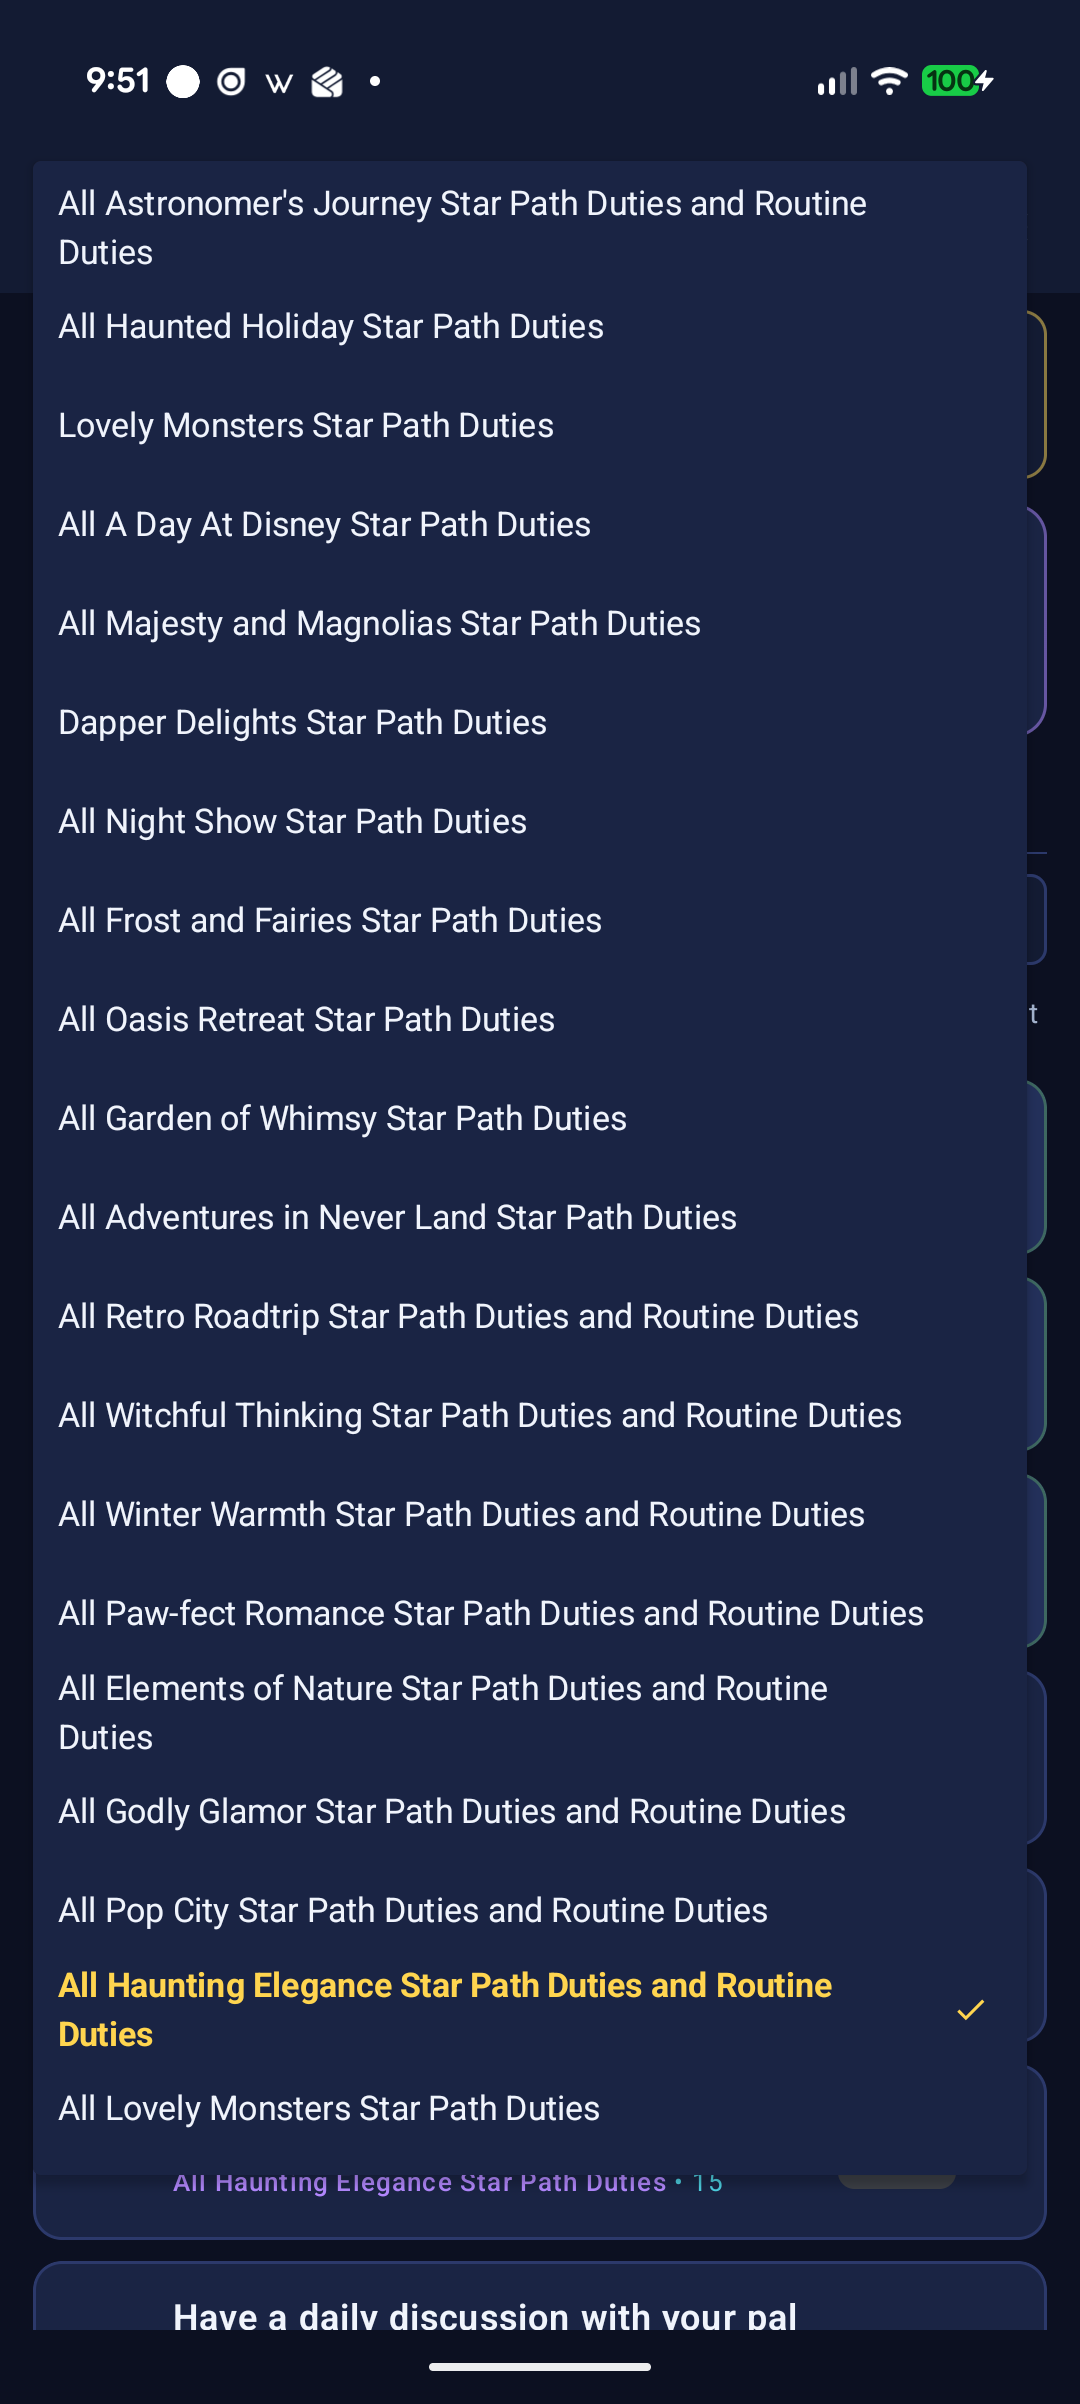
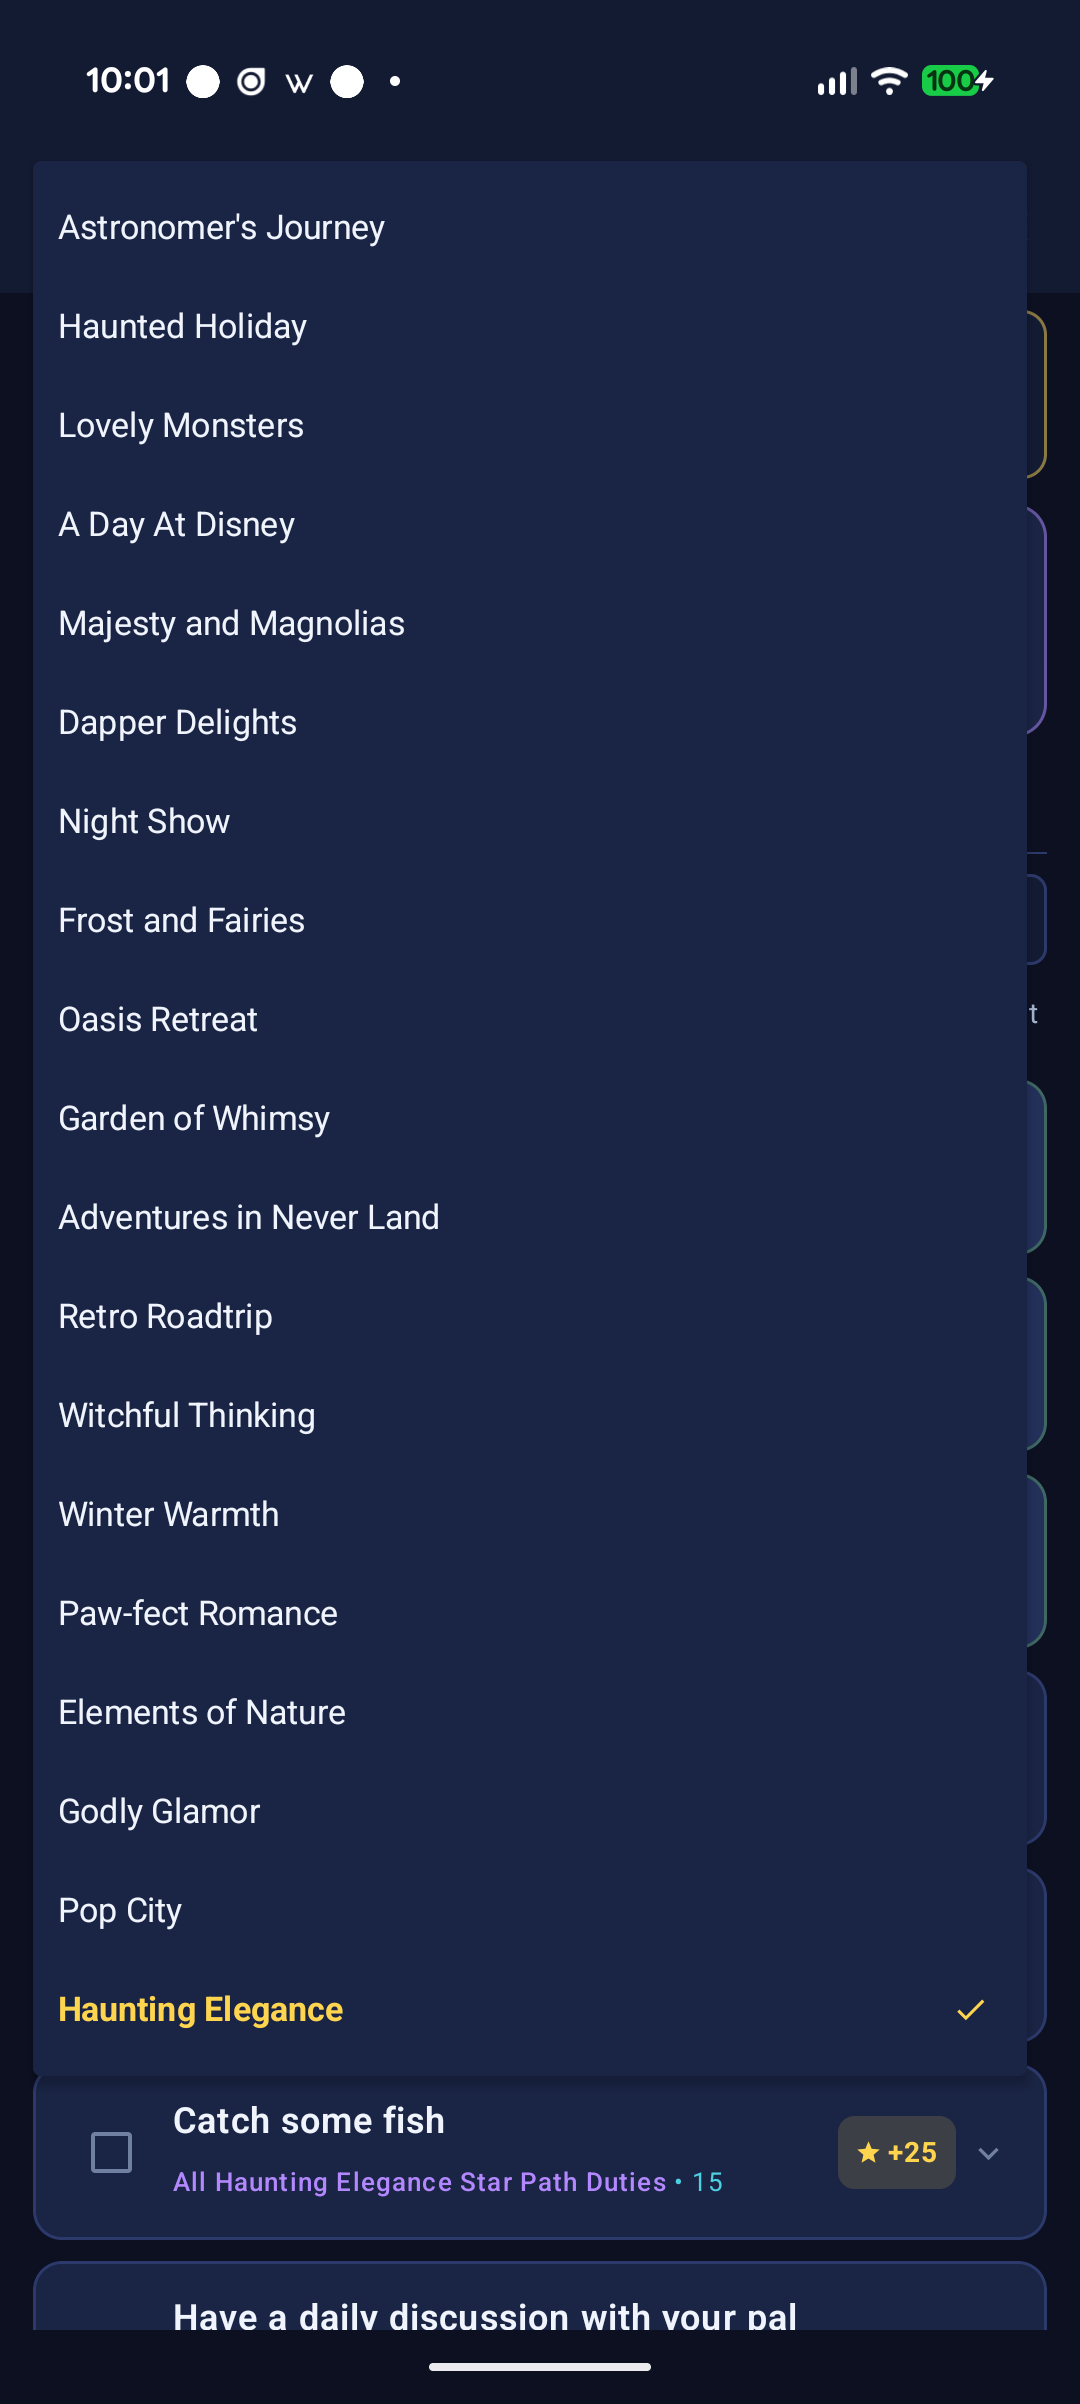
Deduplicate Star Path URLs and entries, trim dropdown display titles

diff --git a/app/src/main/java/net/syserr/starpathtracker/data/StarPathRepository.kt b/app/src/main/java/net/syserr/starpathtracker/data/StarPathRepository.kt
@@ -56,26 +56,42 @@ class StarPathRepository(private val context: Context) {
         val PRESETS = listOf(
             StarPathPreset(
                 id = "haunting_elegance",
-                title = "Haunting Elegance Star Path",
+                title = "Haunting Elegance",
                 url = DEFAULT_URL,
                 description = "Season of Scares update (Oogie Boogie, Jack Skellington)",
                 assetFileName = "haunting_elegance.json"
             ),
             StarPathPreset(
                 id = "godly_glamor",
-                title = "Godly Glamor Star Path",
+                title = "Godly Glamor",
                 url = "https://www.ign.com/wikis/disney-dreamlight-valley/All_Godly_Glamor_Star_Path_Duties_and_Routine_Duties",
                 description = "Olympus Fashion & Mediterranean Specialties",
                 assetFileName = "godly_glamor.json"
             ),
             StarPathPreset(
                 id = "pop_city",
-                title = "Pop City Star Path",
+                title = "Pop City",
                 url = "https://www.ign.com/wikis/disney-dreamlight-valley/All_Pop_City_Star_Path_Duties_and_Routine_Duties",
                 description = "Candy Rush & Vanellope Neon City",
                 assetFileName = "pop_city.json"
             )
         )
+        fun deduplicateAndCleanEntries(entries: List<StarPathEntry>): List<StarPathEntry> {
+            val seenUrls = mutableSetOf<String>()
+            val seenTitles = mutableSetOf<String>()
+            val result = mutableListOf<StarPathEntry>()
+
+            for (entry in entries) {
+                val cleanTitle = StarPathScraper.cleanPathTitle(entry.title)
+                val normUrl = StarPathScraper.normalizeUrl(entry.url)
+                val titleKey = cleanTitle.lowercase(java.util.Locale.ROOT)
+
+                if (normUrl.isNotEmpty() && seenUrls.add(normUrl) && seenTitles.add(titleKey)) {
+                    result.add(entry.copy(title = cleanTitle, url = entry.url.trim()))
+                }
+            }
+            return result
+        }
     }
 
     private val _starPathEntries = MutableStateFlow<List<StarPathEntry>>(DEFAULT_ENTRIES)
@@ -110,7 +126,9 @@ class StarPathRepository(private val context: Context) {
             try {
                 val parsed = json.decodeFromString<List<StarPathEntry>>(cached)
                 if (parsed.isNotEmpty()) {
-                    _starPathEntries.value = parsed
+                    val cleaned = deduplicateAndCleanEntries(parsed)
+                    _starPathEntries.value = cleaned
+                    prefs.edit().putString(KEY_ENTRIES_CACHE, json.encodeToString(cleaned)).apply()
                 }
             } catch (_: Exception) {}
         }
@@ -121,8 +139,9 @@ class StarPathRepository(private val context: Context) {
         if (result.isSuccess) {
             val list = result.getOrThrow()
             if (list.isNotEmpty()) {
-                _starPathEntries.value = list
-                prefs.edit().putString(KEY_ENTRIES_CACHE, json.encodeToString(list)).apply()
+                val cleaned = deduplicateAndCleanEntries(list)
+                _starPathEntries.value = cleaned
+                prefs.edit().putString(KEY_ENTRIES_CACHE, json.encodeToString(cleaned)).apply()
             }
         }
         result
@@ -212,6 +231,8 @@ class StarPathRepository(private val context: Context) {
                     )
                 }
             }
+
+            loadedList = loadedList.copy(title = StarPathScraper.cleanPathTitle(loadedList.title))
 
             // Always update persistent checked status with the merged list
             saveCheckedStatus(listId, loadedList.duties.filter { d -> d.isCompleted })

diff --git a/app/src/main/java/net/syserr/starpathtracker/data/scraper/StarPathScraper.kt b/app/src/main/java/net/syserr/starpathtracker/data/scraper/StarPathScraper.kt
@@ -17,6 +17,30 @@ object StarPathScraper {
     private const val USER_AGENT =
         "Mozilla/5.0 (Windows NT 10.0; Win64; x64) AppleWebKit/537.36 (KHTML, like Gecko) Chrome/120.0.0.0 Safari/537.36"
 
+    fun normalizeUrl(url: String): String {
+        return url.trim()
+            .replace("http://", "https://")
+            .substringBefore("#")
+            .substringBefore("?")
+            .trimEnd('/')
+    }
+
+    fun cleanPathTitle(raw: String): String {
+        return raw
+            .replace(Regex("(?i) - Disney Dreamlight Valley.*"), "")
+            .replace(Regex("(?i)Disney Dreamlight Valley:?\\s*"), "")
+            .replace(Regex("(?i)^\\s*All\\s+"), "")
+            .replace(Regex("(?i)\\s*Star Path Duties and Routine Duties"), "")
+            .replace(Regex("(?i)\\s*Star Path Duties and Routine"), "")
+            .replace(Regex("(?i)\\s*Star Path Duties"), "")
+            .replace(Regex("(?i)\\s*Duties and Routine Duties"), "")
+            .replace(Regex("(?i)\\s*Duties and Routine"), "")
+            .replace(Regex("(?i)\\s*Star Path"), "")
+            .replace(Regex("(?i)\\s*Duties"), "")
+            .replace(Regex("\\s+"), " ")
+            .trim()
+    }
+
     suspend fun scrapeStarPathIndex(hubUrl: String = STAR_PATH_HUB_URL): Result<List<net.syserr.starpathtracker.data.model.StarPathEntry>> =
         withContext(Dispatchers.IO) {
             try {
@@ -29,14 +53,19 @@ object StarPathScraper {
                 val links = doc.select("a[href]")
                 val entries = mutableListOf<net.syserr.starpathtracker.data.model.StarPathEntry>()
                 val seenUrls = mutableSetOf<String>()
+                val seenTitles = mutableSetOf<String>()
 
                 for (link in links) {
                     val rawText = link.text().trim()
                     val href = link.attr("abs:href").trim()
+                    val normUrl = normalizeUrl(href)
 
                     if (rawText.contains("Star Path Duties", ignoreCase = true) || href.contains("Star_Path_Duties", ignoreCase = true)) {
-                        if (href.isNotEmpty() && seenUrls.add(href)) {
-                            val displayTitle = if (rawText.isNotEmpty()) cleanTitle(rawText) else cleanTitle(href.substringAfterLast("/").replace("_", " "))
+                        val rawCandidate = if (rawText.isNotEmpty()) rawText else href.substringAfterLast("/").replace("_", " ")
+                        val displayTitle = cleanPathTitle(rawCandidate)
+                        val titleKey = displayTitle.lowercase(Locale.ROOT)
+
+                        if (normUrl.isNotEmpty() && seenUrls.add(normUrl) && seenTitles.add(titleKey)) {
                             entries.add(net.syserr.starpathtracker.data.model.StarPathEntry(title = displayTitle, url = href))
                         }
                     }
@@ -88,23 +117,16 @@ object StarPathScraper {
         // Try h1 first
         val h1 = doc.selectFirst("h1")?.text()?.trim()
         if (!h1.isNullOrEmpty()) {
-            return cleanTitle(h1)
+            return cleanPathTitle(h1)
         }
 
         // Try title tag
         val titleTag = doc.title().trim()
         if (titleTag.isNotEmpty()) {
-            return cleanTitle(titleTag)
+            return cleanPathTitle(titleTag)
         }
 
         return "Star Path Duties"
-    }
-
-    private fun cleanTitle(raw: String): String {
-        return raw.replace(Regex("(?i) - Disney Dreamlight Valley.*"), "")
-            .replace(Regex("(?i)Disney Dreamlight Valley:?\\s*"), "")
-            .replace(Regex("\\s+"), " ")
-            .trim()
     }
 
     private fun parseDuties(doc: Document, sourceUrl: String): List<StarPathDuty> {

diff --git a/app/src/test/java/net/syserr/starpathtracker/StarPathScraperTest.kt b/app/src/test/java/net/syserr/starpathtracker/StarPathScraperTest.kt
@@ -69,4 +69,30 @@ class StarPathScraperTest {
         val listId = StarPathScraper.generateListId("https://www.ign.com/wikis/disney-dreamlight-valley/All_Haunting_Elegance_Star_Path_Duties_and_Routine_Duties")
         assertEquals("all_haunting_elegance_star_path_duties_and_routine_duties", listId)
     }
+
+    @Test
+    fun testCleanPathTitleRemovesPrefixesAndSuffixes() {
+        assertEquals("Lovely Monsters", StarPathScraper.cleanPathTitle("All Lovely Monsters Star Path Duties"))
+        assertEquals("Lovely Monsters", StarPathScraper.cleanPathTitle("Lovely Monsters Star Path Duties"))
+        assertEquals("Lovely Monsters", StarPathScraper.cleanPathTitle("Lovely Monsters"))
+        assertEquals("Haunting Elegance", StarPathScraper.cleanPathTitle("All Haunting Elegance Star Path Duties and Routine Duties"))
+        assertEquals("Haunting Elegance", StarPathScraper.cleanPathTitle("Haunting Elegance Star Path"))
+        assertEquals("Pop City", StarPathScraper.cleanPathTitle("All Pop City Star Path Duties and Routine Duties"))
+        assertEquals("Godly Glamor", StarPathScraper.cleanPathTitle("All Godly Glamor Star Path Duties and Routine Duties"))
+        assertEquals("Astronomer's Journey", StarPathScraper.cleanPathTitle("All Astronomer's Journey Star Path Duties and Routine Duties"))
+        assertEquals("Dapper Delights", StarPathScraper.cleanPathTitle("Dapper Delights Star Path Duties"))
+        assertEquals("Haunted Holiday", StarPathScraper.cleanPathTitle("All Haunted Holiday Star Path Duties"))
+    }
+
+    @Test
+    fun testNormalizeUrl() {
+        assertEquals(
+            "https://www.ign.com/wikis/disney-dreamlight-valley/Lovely_Monsters_Star_Path_Duties",
+            StarPathScraper.normalizeUrl("http://www.ign.com/wikis/disney-dreamlight-valley/Lovely_Monsters_Star_Path_Duties#section")
+        )
+        assertEquals(
+            "https://www.ign.com/wikis/disney-dreamlight-valley/Lovely_Monsters_Star_Path_Duties",
+            StarPathScraper.normalizeUrl("https://www.ign.com/wikis/disney-dreamlight-valley/Lovely_Monsters_Star_Path_Duties/")
+        )
+    }
 }

diff --git a/app/src/test/java/net/syserr/starpathtracker/ui/main/MainScreenViewModelTest.kt b/app/src/test/java/net/syserr/starpathtracker/ui/main/MainScreenViewModelTest.kt
@@ -2,6 +2,7 @@ package net.syserr.starpathtracker.ui.main
 
 import net.syserr.starpathtracker.data.StarPathRepository
 import net.syserr.starpathtracker.data.model.StarPathDuty
+import net.syserr.starpathtracker.data.model.StarPathEntry
 import net.syserr.starpathtracker.data.model.StarPathList
 import org.junit.Assert.assertEquals
 import org.junit.Assert.assertFalse
@@ -80,6 +81,22 @@ class MainScreenViewModelTest {
         assertEquals(2, visibleAll.size)
         assertEquals(1, visibleOnlyIncomplete.size)
         assertEquals("Task 2", visibleOnlyIncomplete[0].title)
+    }
+
+    @Test
+    fun testDeduplicateAndCleanEntries() {
+        val rawEntries = listOf(
+            StarPathEntry("All Lovely Monsters Star Path Duties", "https://www.ign.com/wikis/disney-dreamlight-valley/All_Lovely_Monsters_Star_Path_Duties"),
+            StarPathEntry("Lovely Monsters Star Path Duties", "https://www.ign.com/wikis/disney-dreamlight-valley/Lovely_Monsters_Star_Path_Duties"),
+            StarPathEntry("Pop City", "https://www.ign.com/wikis/disney-dreamlight-valley/All_Pop_City_Star_Path_Duties_and_Routine_Duties"),
+            StarPathEntry("All Pop City Star Path Duties and Routine Duties", "https://www.ign.com/wikis/disney-dreamlight-valley/All_Pop_City_Star_Path_Duties_and_Routine_Duties#anchor")
+        )
+
+        val deduplicated = StarPathRepository.deduplicateAndCleanEntries(rawEntries)
+
+        assertEquals(2, deduplicated.size)
+        assertEquals("Lovely Monsters", deduplicated[0].title)
+        assertEquals("Pop City", deduplicated[1].title)
     }
 }
 

diff --git a/app/src/main/java/net/syserr/starpathtracker/ui/main/MainScreen.kt b/app/src/main/java/net/syserr/starpathtracker/ui/main/MainScreen.kt
@@ -105,6 +105,7 @@ import net.syserr.starpathtracker.data.StarPathRepository
 import net.syserr.starpathtracker.data.model.StarPathDuty
 import net.syserr.starpathtracker.data.model.StarPathEntry
 import net.syserr.starpathtracker.data.model.StarPathList
+import net.syserr.starpathtracker.data.scraper.StarPathScraper
 import net.syserr.starpathtracker.theme.CelestialBackground
 import net.syserr.starpathtracker.theme.CelestialCard
 import net.syserr.starpathtracker.theme.CelestialCardBorder
@@ -471,7 +472,7 @@ fun StarPathDropdownSelector(
                     )
                     Spacer(modifier = Modifier.height(2.dp))
                     Text(
-                        text = selectedTitle,
+                        text = StarPathScraper.cleanPathTitle(selectedTitle),
                         fontSize = 14.sp,
                         fontWeight = FontWeight.Bold,
                         color = TextPrimary,
@@ -500,7 +501,7 @@ fun StarPathDropdownSelector(
                 DropdownMenuItem(
                     text = {
                         Text(
-                            text = entry.title,
+                            text = StarPathScraper.cleanPathTitle(entry.title),
                             fontSize = 14.sp,
                             fontWeight = if (isSelected) FontWeight.Bold else FontWeight.Normal,
                             color = if (isSelected) StarlightGold else TextPrimary
